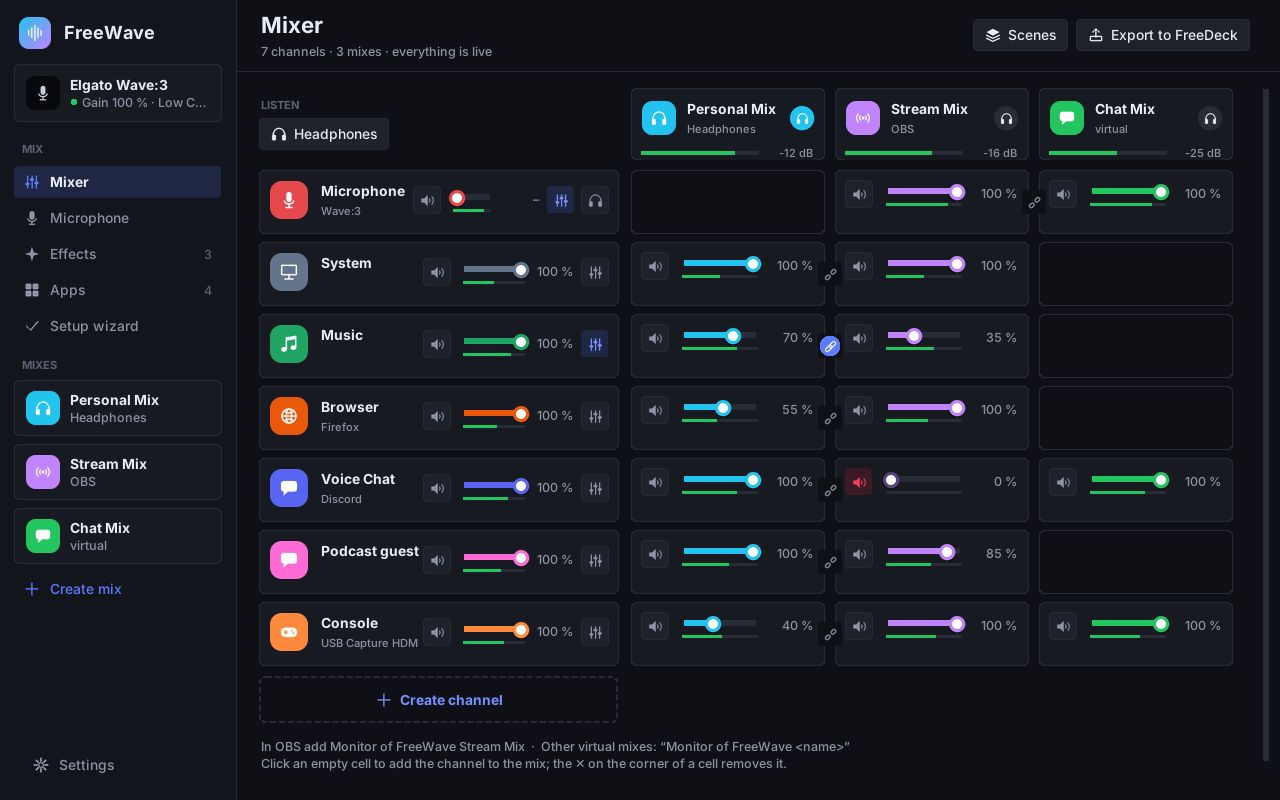
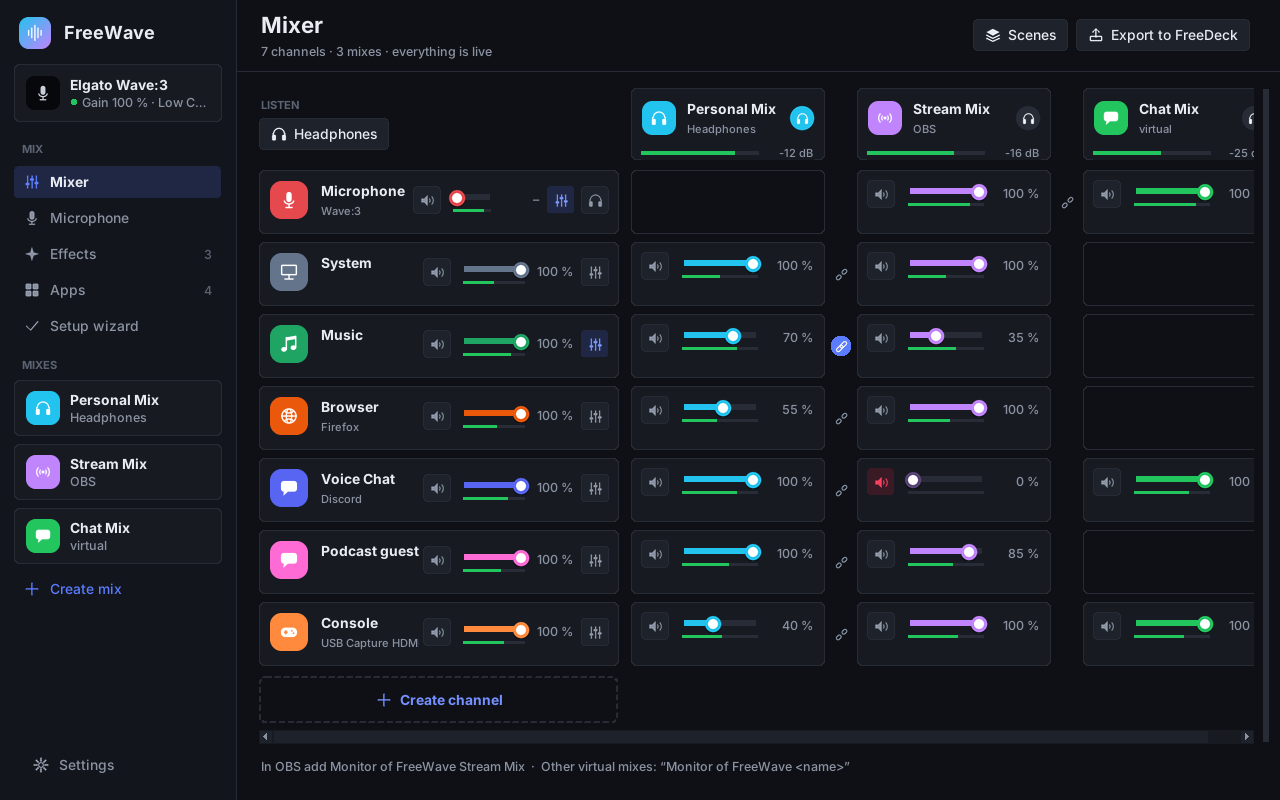
FreeWave: chain symbol fully inside a wider gap, no dark box (0.32.1)
The 24 px LinkToggle was centred in the 10 px gap between two mix cells, so
its square background overlapped both cells and showed as a dark box. The
first mix cell of a linked-capable channel now gets a LINK_GAP (32 px) right
padding and the toggle sits fully in that gap on the gap's colour.

Claude-Session: https://claude.ai/code/session_01ScnBRq2ic6dcuKmkjMBFsu

diff --git a/freestream/waveui.py b/freestream/waveui.py
@@ -388,6 +388,9 @@ class RemoveBadge(tk.Canvas):
         return ImageTk.PhotoImage(im.resize((s, s), Image.LANCZOS), master=self)
 
 
+LINK_GAP = 32  # Lücke hinter dem ersten Mix eines Kanals, darin die Kette (LinkToggle.SIZE + Rand)
+
+
 class LinkToggle(tk.Canvas):
     """Kettensymbol zwischen zwei Mix-Reglern (wie das Schloss in Wave Link): gekoppelt = farbig."""
 
@@ -1217,8 +1220,11 @@ class WaveWindow:
             if btn is None:
                 btn = LinkToggle(self.table, command=lambda on, c=cid: self._on_link(c, on))
                 btn.anchor = anchor
-                btn.configure(bg=theme._bg_of(anchor.master))  # Farbe der Lücke, in der die Kette sitzt
-                btn.place(in_=anchor, relx=1.0, x=5, rely=0.5, anchor="center")  # in der Lücke zum nächsten Mix
+                # eigene, breitere Lücke hinter dem ersten Mix: die Kette sitzt ganz darin (sonst ragt ihr
+                # Quadrat in beide Zellen und zeigt dort die falsche Farbe)
+                anchor.grid_configure(padx=(0, LINK_GAP))
+                btn.configure(bg=theme._bg_of(anchor.master))
+                btn.place(in_=anchor, relx=1.0, x=LINK_GAP // 2, rely=0.5, anchor="center")
                 tk.Misc.lift(btn)
                 btns[cid] = btn
             if not self._held(f"link:{cid}"):

diff --git a/freestream/__init__.py b/freestream/__init__.py
@@ -4,7 +4,7 @@ Zwei Programme: FreeDeck (Stream Deck, liest Elgato-Profile direkt ein) und
 FreeWave (Audio-Mixer und Wave-Mikrofon, Ersatz für Wave Link).
 """
 
-__version__ = "0.32.0"
+__version__ = "0.32.1"
 APP_NAME = "freedeck"
 
 

diff --git a/packaging/release-notes/v0.32.1.md b/packaging/release-notes/v0.32.1.md
@@ -1,0 +1,17 @@
+## FreeWave: chain symbol without a dark box
+
+**English**
+
+**FreeWave**
+- The chain symbol for linked sliders no longer shows a dark box around it: the gap after a channel's first mix is now wide enough for the symbol to sit fully inside it.
+
+**Install:** FreeDeck or FreeWave offers this update at the next start. Otherwise download the file you need and double-click it.
+
+---
+
+**Deutsch**
+
+**FreeWave**
+- Das Ketten-Symbol für gekoppelte Regler hat keinen dunklen Kasten mehr: Die Lücke hinter dem ersten Mix eines Kanals ist jetzt breit genug, damit das Symbol ganz darin sitzt.
+
+**Installieren:** FreeDeck bzw. FreeWave bietet das Update beim nächsten Start an. Sonst die passende Datei herunterladen und doppelklicken.
